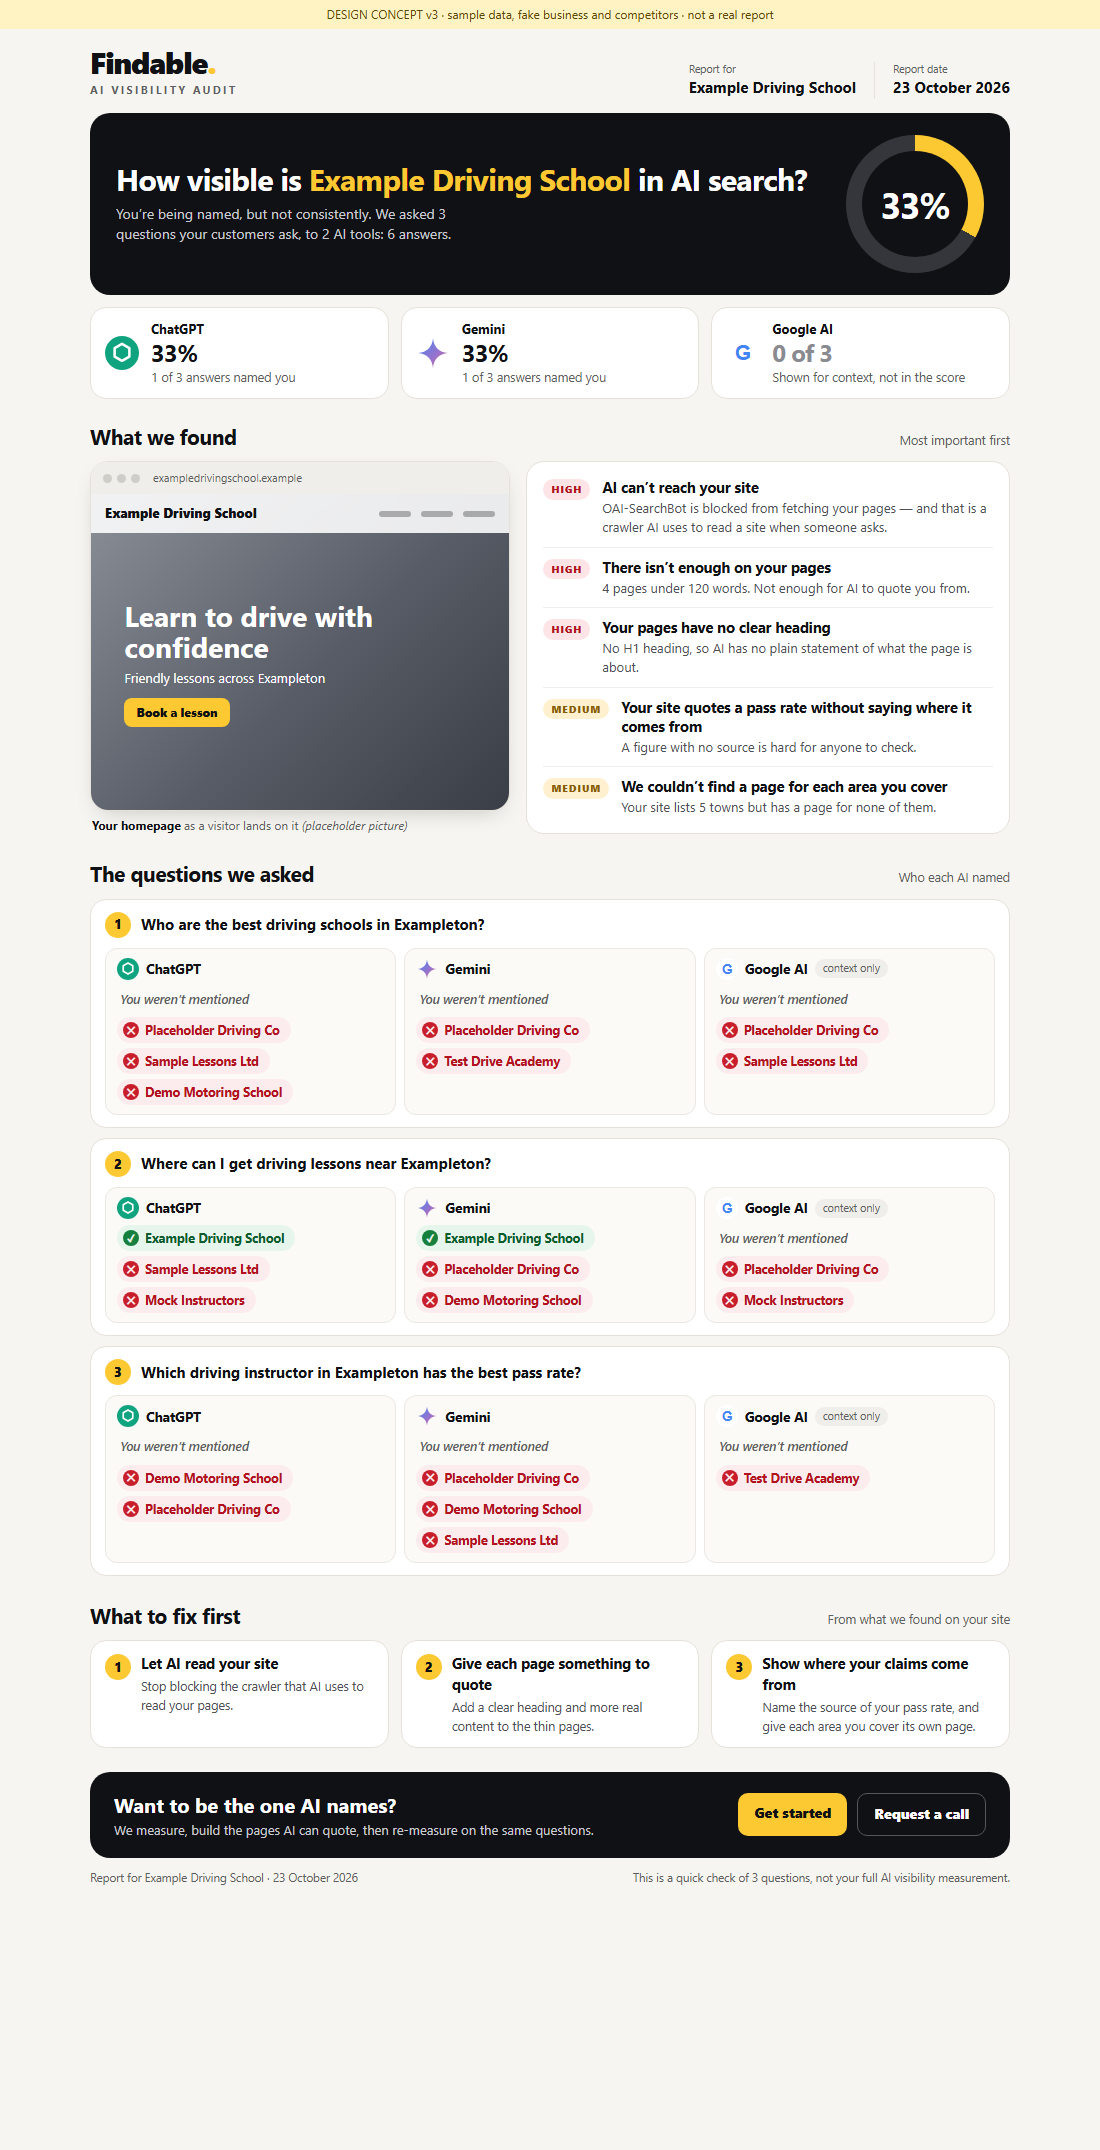
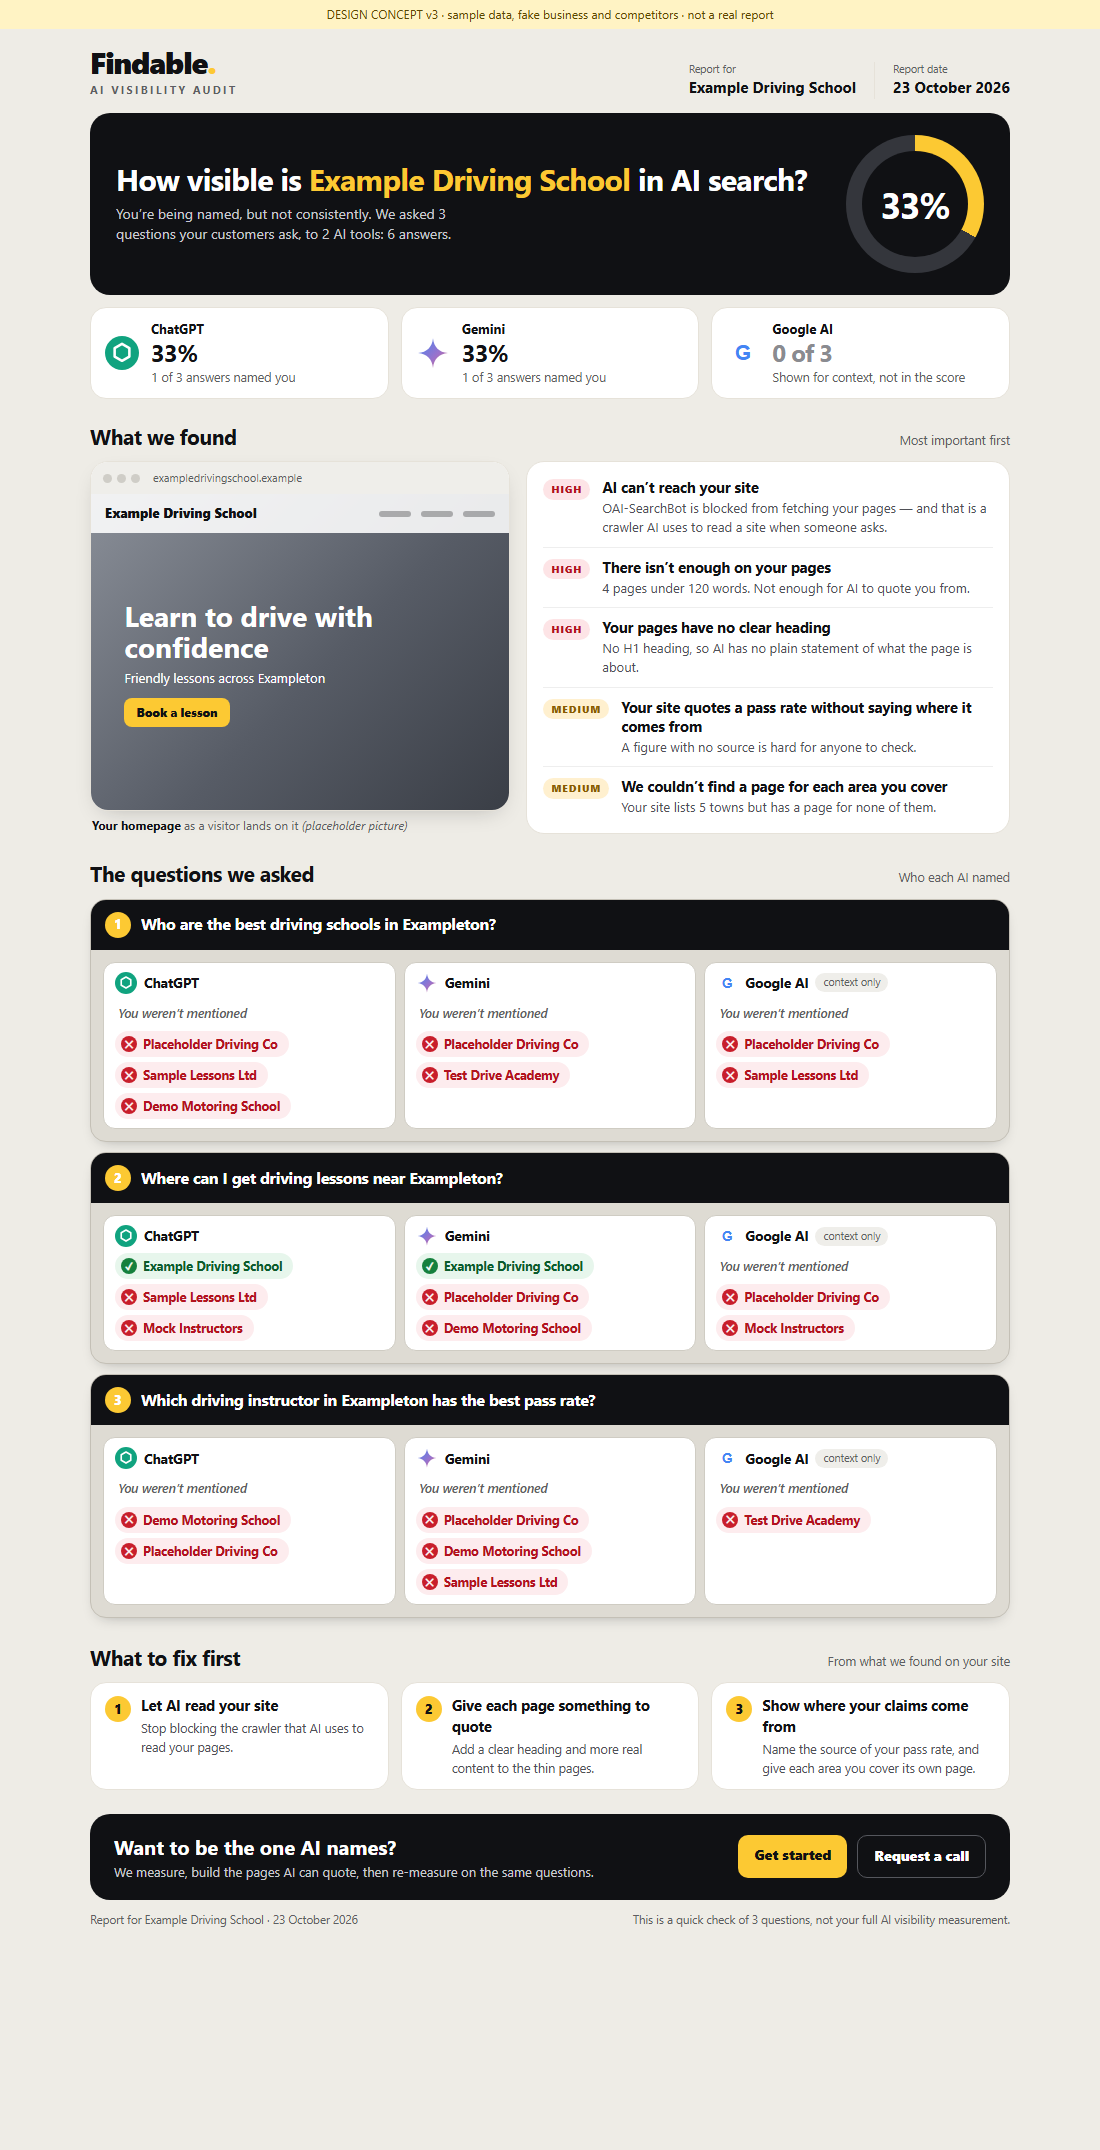
docs: audit concept v3 question boxes now stand out (dark title bar, grey body)

Changed region(s): [[0.0618, 0.4051, 0.9273, 0.9037]]

diff --git a/docs/audit-concepts/site-first-v3.html b/docs/audit-concepts/site-first-v3.html
@@ -1,6 +1,6 @@
 <!doctype html><html lang="en-GB"><head><meta charset="utf-8"><meta name="viewport" content="width=device-width,initial-scale=1"><title>Concept v3: site first</title>
 <style>
-:root{--ink:#101114;--mut:#5d5e63;--cream:#f7f5f1;--card:#fff;--line:#e6e2d9;--yel:#fcc933;--red:#b3121e;--redbg:#fdecee;--redline:#f6ccd1;--grn:#0d5c2c;--grnbg:#e7f6ec;--grnline:#b9e2c7}
+:root{--ink:#101114;--mut:#5d5e63;--cream:#eeece6;--card:#fff;--line:#e6e2d9;--yel:#fcc933;--red:#b3121e;--redbg:#fdecee;--redline:#f6ccd1;--grn:#0d5c2c;--grnbg:#e7f6ec;--grnline:#b9e2c7}
 *{box-sizing:border-box}body{margin:0;background:var(--cream);color:var(--ink);font:15px/1.45 system-ui,"Segoe UI",Roboto,sans-serif}
 .note{background:#fff3c4;color:#5c4700;font-size:12px;padding:6px 14px;text-align:center}
 .sheet{max-width:960px;margin:0 auto;padding:18px 20px 28px}
@@ -31,10 +31,11 @@ section{margin-bottom:24px}
 .sv{font-size:10px;font-weight:800;letter-spacing:.1em;text-transform:uppercase;padding:3px 8px;border-radius:999px;margin-top:1px}.sv.high{background:#fde4e6;color:var(--red)}.sv.med{background:#fff0cf;color:#8a5a00}
 .is b{font-size:14.5px;line-height:1.3;display:block}.is p{margin:2px 0 0;font-size:13px;color:#4f5056}
 .qs{display:grid;gap:10px}
-.q{background:#fff;border:1px solid var(--line);border-radius:16px;padding:12px 14px}
-.qt{display:flex;gap:10px;align-items:center;font-weight:700;margin-bottom:10px}.qn{flex:none;width:26px;height:26px;border-radius:50%;background:var(--yel);display:grid;place-items:center;font-size:13px;font-weight:800}
+.q{background:#dedbd3;border:1px solid #c4c0b6;border-radius:16px;overflow:hidden;box-shadow:0 6px 16px -10px rgba(16,17,20,.45)}
+.qb{padding:12px}
+.qt{display:flex;gap:10px;align-items:center;font-weight:700;background:var(--ink);color:#fff;padding:12px 14px;font-size:15.5px}.qn{flex:none;width:26px;height:26px;border-radius:50%;background:var(--yel);display:grid;place-items:center;font-size:13px;font-weight:800}
 .qr{display:grid;grid-template-columns:1fr 1fr 1fr;gap:8px}
-.qc{background:#fbfaf7;border:1px solid #ebe8e1;border-radius:12px;padding:9px 11px;min-width:0}
+.qc{background:#fff;border:1px solid #cfccc3;border-radius:12px;padding:9px 11px;min-width:0}
 .qc-h{display:flex;align-items:center;gap:7px;margin-bottom:6px;flex-wrap:wrap}.qc-h b{font-size:13.5px}.mk{display:inline-block;width:22px;height:22px}.mk svg{width:100%;height:100%;display:block}
 .tag{font-size:10.5px;color:var(--mut);background:#efeeea;border-radius:999px;padding:2px 8px}
 .nl{list-style:none;margin:0;padding:0;display:flex;flex-wrap:wrap;gap:5px}
@@ -63,16 +64,16 @@ section{margin-bottom:24px}
 <div class="found"><figure class="hero"><div class="hf"><div class="hb"><b></b><b></b><b></b><span>exampledrivingschool.example</span></div><div class="hs"><div class="hn"><em>Example Driving School</em><u></u><u></u><u></u></div><div class="hh"><h3>Learn to drive with confidence</h3><p>Friendly lessons across Exampleton</p><span>Book a lesson</span></div></div></div><figcaption><b>Your homepage</b> as a visitor lands on it <i>(placeholder picture)</i></figcaption></figure>
 <div class="iss"><div class="is"><span class="sv high">High</span><div><b>AI can’t reach your site</b><p>OAI-SearchBot is blocked from fetching your pages — and that is a crawler AI uses to read a site when someone asks.</p></div></div><div class="is"><span class="sv high">High</span><div><b>There isn’t enough on your pages</b><p>4 pages under 120 words. Not enough for AI to quote you from.</p></div></div><div class="is"><span class="sv high">High</span><div><b>Your pages have no clear heading</b><p>No H1 heading, so AI has no plain statement of what the page is about.</p></div></div><div class="is"><span class="sv med">Medium</span><div><b>Your site quotes a pass rate without saying where it comes from</b><p>A figure with no source is hard for anyone to check.</p></div></div><div class="is"><span class="sv med">Medium</span><div><b>We couldn’t find a page for each area you cover</b><p>Your site lists 5 towns but has a page for none of them.</p></div></div></div></div></section>
 <section><h2>The questions we asked <small>Who each AI named</small></h2><div class="qs">
-<div class="q"><div class="qt"><span class="qn">1</span>Who are the best driving schools in Exampleton?</div><div class="qr"><div class="qc"><div class="qc-h"><span class="mk"><svg viewBox="0 0 24 24" aria-hidden="true"><circle cx="12" cy="12" r="12" fill="#10a37f"/><path d="M12 5.5l5.2 3v6L12 17.5l-5.2-3v-6z" fill="none" stroke="#fff" stroke-width="1.8" stroke-linejoin="round"/></svg></span><b>ChatGPT</b></div>
+<div class="q"><div class="qt"><span class="qn">1</span>Who are the best driving schools in Exampleton?</div><div class="qb"><div class="qr"><div class="qc"><div class="qc-h"><span class="mk"><svg viewBox="0 0 24 24" aria-hidden="true"><circle cx="12" cy="12" r="12" fill="#10a37f"/><path d="M12 5.5l5.2 3v6L12 17.5l-5.2-3v-6z" fill="none" stroke="#fff" stroke-width="1.8" stroke-linejoin="round"/></svg></span><b>ChatGPT</b></div>
   <ul class="nl"><li class="miss">You weren’t mentioned</li><li class="rv"><i>&#10005;</i>Placeholder Driving Co</li><li class="rv"><i>&#10005;</i>Sample Lessons Ltd</li><li class="rv"><i>&#10005;</i>Demo Motoring School</li></ul></div><div class="qc"><div class="qc-h"><span class="mk"><svg viewBox="0 0 24 24" aria-hidden="true"><defs><linearGradient id="gg" x1="0" y1="0" x2="1" y2="1"><stop offset="0" stop-color="#4285f4"/><stop offset=".6" stop-color="#9b72cb"/><stop offset="1" stop-color="#d96570"/></linearGradient></defs><path d="M12 1.5c.6 6.2 4.3 9.9 10.5 10.5-6.2.6-9.9 4.3-10.5 10.5C11.4 16.3 7.7 12.6 1.5 12 7.7 11.4 11.4 7.7 12 1.5z" fill="url(#gg)"/></svg></span><b>Gemini</b></div>
   <ul class="nl"><li class="miss">You weren’t mentioned</li><li class="rv"><i>&#10005;</i>Placeholder Driving Co</li><li class="rv"><i>&#10005;</i>Test Drive Academy</li></ul></div><div class="qc"><div class="qc-h"><span class="mk"><svg viewBox="0 0 24 24" aria-hidden="true"><circle cx="12" cy="12" r="12" fill="#fff"/><text x="12" y="17" text-anchor="middle" font-family="Arial,sans-serif" font-weight="700" font-size="15" fill="#4285f4">G</text></svg></span><b>Google AI</b><span class="tag">context only</span></div>
-  <ul class="nl"><li class="miss">You weren’t mentioned</li><li class="rv"><i>&#10005;</i>Placeholder Driving Co</li><li class="rv"><i>&#10005;</i>Sample Lessons Ltd</li></ul></div></div></div><div class="q"><div class="qt"><span class="qn">2</span>Where can I get driving lessons near Exampleton?</div><div class="qr"><div class="qc"><div class="qc-h"><span class="mk"><svg viewBox="0 0 24 24" aria-hidden="true"><circle cx="12" cy="12" r="12" fill="#10a37f"/><path d="M12 5.5l5.2 3v6L12 17.5l-5.2-3v-6z" fill="none" stroke="#fff" stroke-width="1.8" stroke-linejoin="round"/></svg></span><b>ChatGPT</b></div>
+  <ul class="nl"><li class="miss">You weren’t mentioned</li><li class="rv"><i>&#10005;</i>Placeholder Driving Co</li><li class="rv"><i>&#10005;</i>Sample Lessons Ltd</li></ul></div></div></div></div><div class="q"><div class="qt"><span class="qn">2</span>Where can I get driving lessons near Exampleton?</div><div class="qb"><div class="qr"><div class="qc"><div class="qc-h"><span class="mk"><svg viewBox="0 0 24 24" aria-hidden="true"><circle cx="12" cy="12" r="12" fill="#10a37f"/><path d="M12 5.5l5.2 3v6L12 17.5l-5.2-3v-6z" fill="none" stroke="#fff" stroke-width="1.8" stroke-linejoin="round"/></svg></span><b>ChatGPT</b></div>
   <ul class="nl"><li class="me"><i>&#10003;</i>Example Driving School</li><li class="rv"><i>&#10005;</i>Sample Lessons Ltd</li><li class="rv"><i>&#10005;</i>Mock Instructors</li></ul></div><div class="qc"><div class="qc-h"><span class="mk"><svg viewBox="0 0 24 24" aria-hidden="true"><defs><linearGradient id="gg" x1="0" y1="0" x2="1" y2="1"><stop offset="0" stop-color="#4285f4"/><stop offset=".6" stop-color="#9b72cb"/><stop offset="1" stop-color="#d96570"/></linearGradient></defs><path d="M12 1.5c.6 6.2 4.3 9.9 10.5 10.5-6.2.6-9.9 4.3-10.5 10.5C11.4 16.3 7.7 12.6 1.5 12 7.7 11.4 11.4 7.7 12 1.5z" fill="url(#gg)"/></svg></span><b>Gemini</b></div>
   <ul class="nl"><li class="me"><i>&#10003;</i>Example Driving School</li><li class="rv"><i>&#10005;</i>Placeholder Driving Co</li><li class="rv"><i>&#10005;</i>Demo Motoring School</li></ul></div><div class="qc"><div class="qc-h"><span class="mk"><svg viewBox="0 0 24 24" aria-hidden="true"><circle cx="12" cy="12" r="12" fill="#fff"/><text x="12" y="17" text-anchor="middle" font-family="Arial,sans-serif" font-weight="700" font-size="15" fill="#4285f4">G</text></svg></span><b>Google AI</b><span class="tag">context only</span></div>
-  <ul class="nl"><li class="miss">You weren’t mentioned</li><li class="rv"><i>&#10005;</i>Placeholder Driving Co</li><li class="rv"><i>&#10005;</i>Mock Instructors</li></ul></div></div></div><div class="q"><div class="qt"><span class="qn">3</span>Which driving instructor in Exampleton has the best pass rate?</div><div class="qr"><div class="qc"><div class="qc-h"><span class="mk"><svg viewBox="0 0 24 24" aria-hidden="true"><circle cx="12" cy="12" r="12" fill="#10a37f"/><path d="M12 5.5l5.2 3v6L12 17.5l-5.2-3v-6z" fill="none" stroke="#fff" stroke-width="1.8" stroke-linejoin="round"/></svg></span><b>ChatGPT</b></div>
+  <ul class="nl"><li class="miss">You weren’t mentioned</li><li class="rv"><i>&#10005;</i>Placeholder Driving Co</li><li class="rv"><i>&#10005;</i>Mock Instructors</li></ul></div></div></div></div><div class="q"><div class="qt"><span class="qn">3</span>Which driving instructor in Exampleton has the best pass rate?</div><div class="qb"><div class="qr"><div class="qc"><div class="qc-h"><span class="mk"><svg viewBox="0 0 24 24" aria-hidden="true"><circle cx="12" cy="12" r="12" fill="#10a37f"/><path d="M12 5.5l5.2 3v6L12 17.5l-5.2-3v-6z" fill="none" stroke="#fff" stroke-width="1.8" stroke-linejoin="round"/></svg></span><b>ChatGPT</b></div>
   <ul class="nl"><li class="miss">You weren’t mentioned</li><li class="rv"><i>&#10005;</i>Demo Motoring School</li><li class="rv"><i>&#10005;</i>Placeholder Driving Co</li></ul></div><div class="qc"><div class="qc-h"><span class="mk"><svg viewBox="0 0 24 24" aria-hidden="true"><defs><linearGradient id="gg" x1="0" y1="0" x2="1" y2="1"><stop offset="0" stop-color="#4285f4"/><stop offset=".6" stop-color="#9b72cb"/><stop offset="1" stop-color="#d96570"/></linearGradient></defs><path d="M12 1.5c.6 6.2 4.3 9.9 10.5 10.5-6.2.6-9.9 4.3-10.5 10.5C11.4 16.3 7.7 12.6 1.5 12 7.7 11.4 11.4 7.7 12 1.5z" fill="url(#gg)"/></svg></span><b>Gemini</b></div>
   <ul class="nl"><li class="miss">You weren’t mentioned</li><li class="rv"><i>&#10005;</i>Placeholder Driving Co</li><li class="rv"><i>&#10005;</i>Demo Motoring School</li><li class="rv"><i>&#10005;</i>Sample Lessons Ltd</li></ul></div><div class="qc"><div class="qc-h"><span class="mk"><svg viewBox="0 0 24 24" aria-hidden="true"><circle cx="12" cy="12" r="12" fill="#fff"/><text x="12" y="17" text-anchor="middle" font-family="Arial,sans-serif" font-weight="700" font-size="15" fill="#4285f4">G</text></svg></span><b>Google AI</b><span class="tag">context only</span></div>
-  <ul class="nl"><li class="miss">You weren’t mentioned</li><li class="rv"><i>&#10005;</i>Test Drive Academy</li></ul></div></div></div>
+  <ul class="nl"><li class="miss">You weren’t mentioned</li><li class="rv"><i>&#10005;</i>Test Drive Academy</li></ul></div></div></div></div>
 </div></section>
 <section><h2>What to fix first <small>From what we found on your site</small></h2><div class="fix"><div class="f"><span class="qn">1</span><div><b>Let AI read your site</b><p>Stop blocking the crawler that AI uses to read your pages.</p></div></div><div class="f"><span class="qn">2</span><div><b>Give each page something to quote</b><p>Add a clear heading and more real content to the thin pages.</p></div></div><div class="f"><span class="qn">3</span><div><b>Show where your claims come from</b><p>Name the source of your pass rate, and give each area you cover its own page.</p></div></div></div></section>
 <div class="cta"><div><b>Want to be the one AI names?</b><p>We measure, build the pages AI can quote, then re-measure on the same questions.</p></div><div class="btns"><span class="btn">Get started</span><span class="btn g">Request a call</span></div></div>
